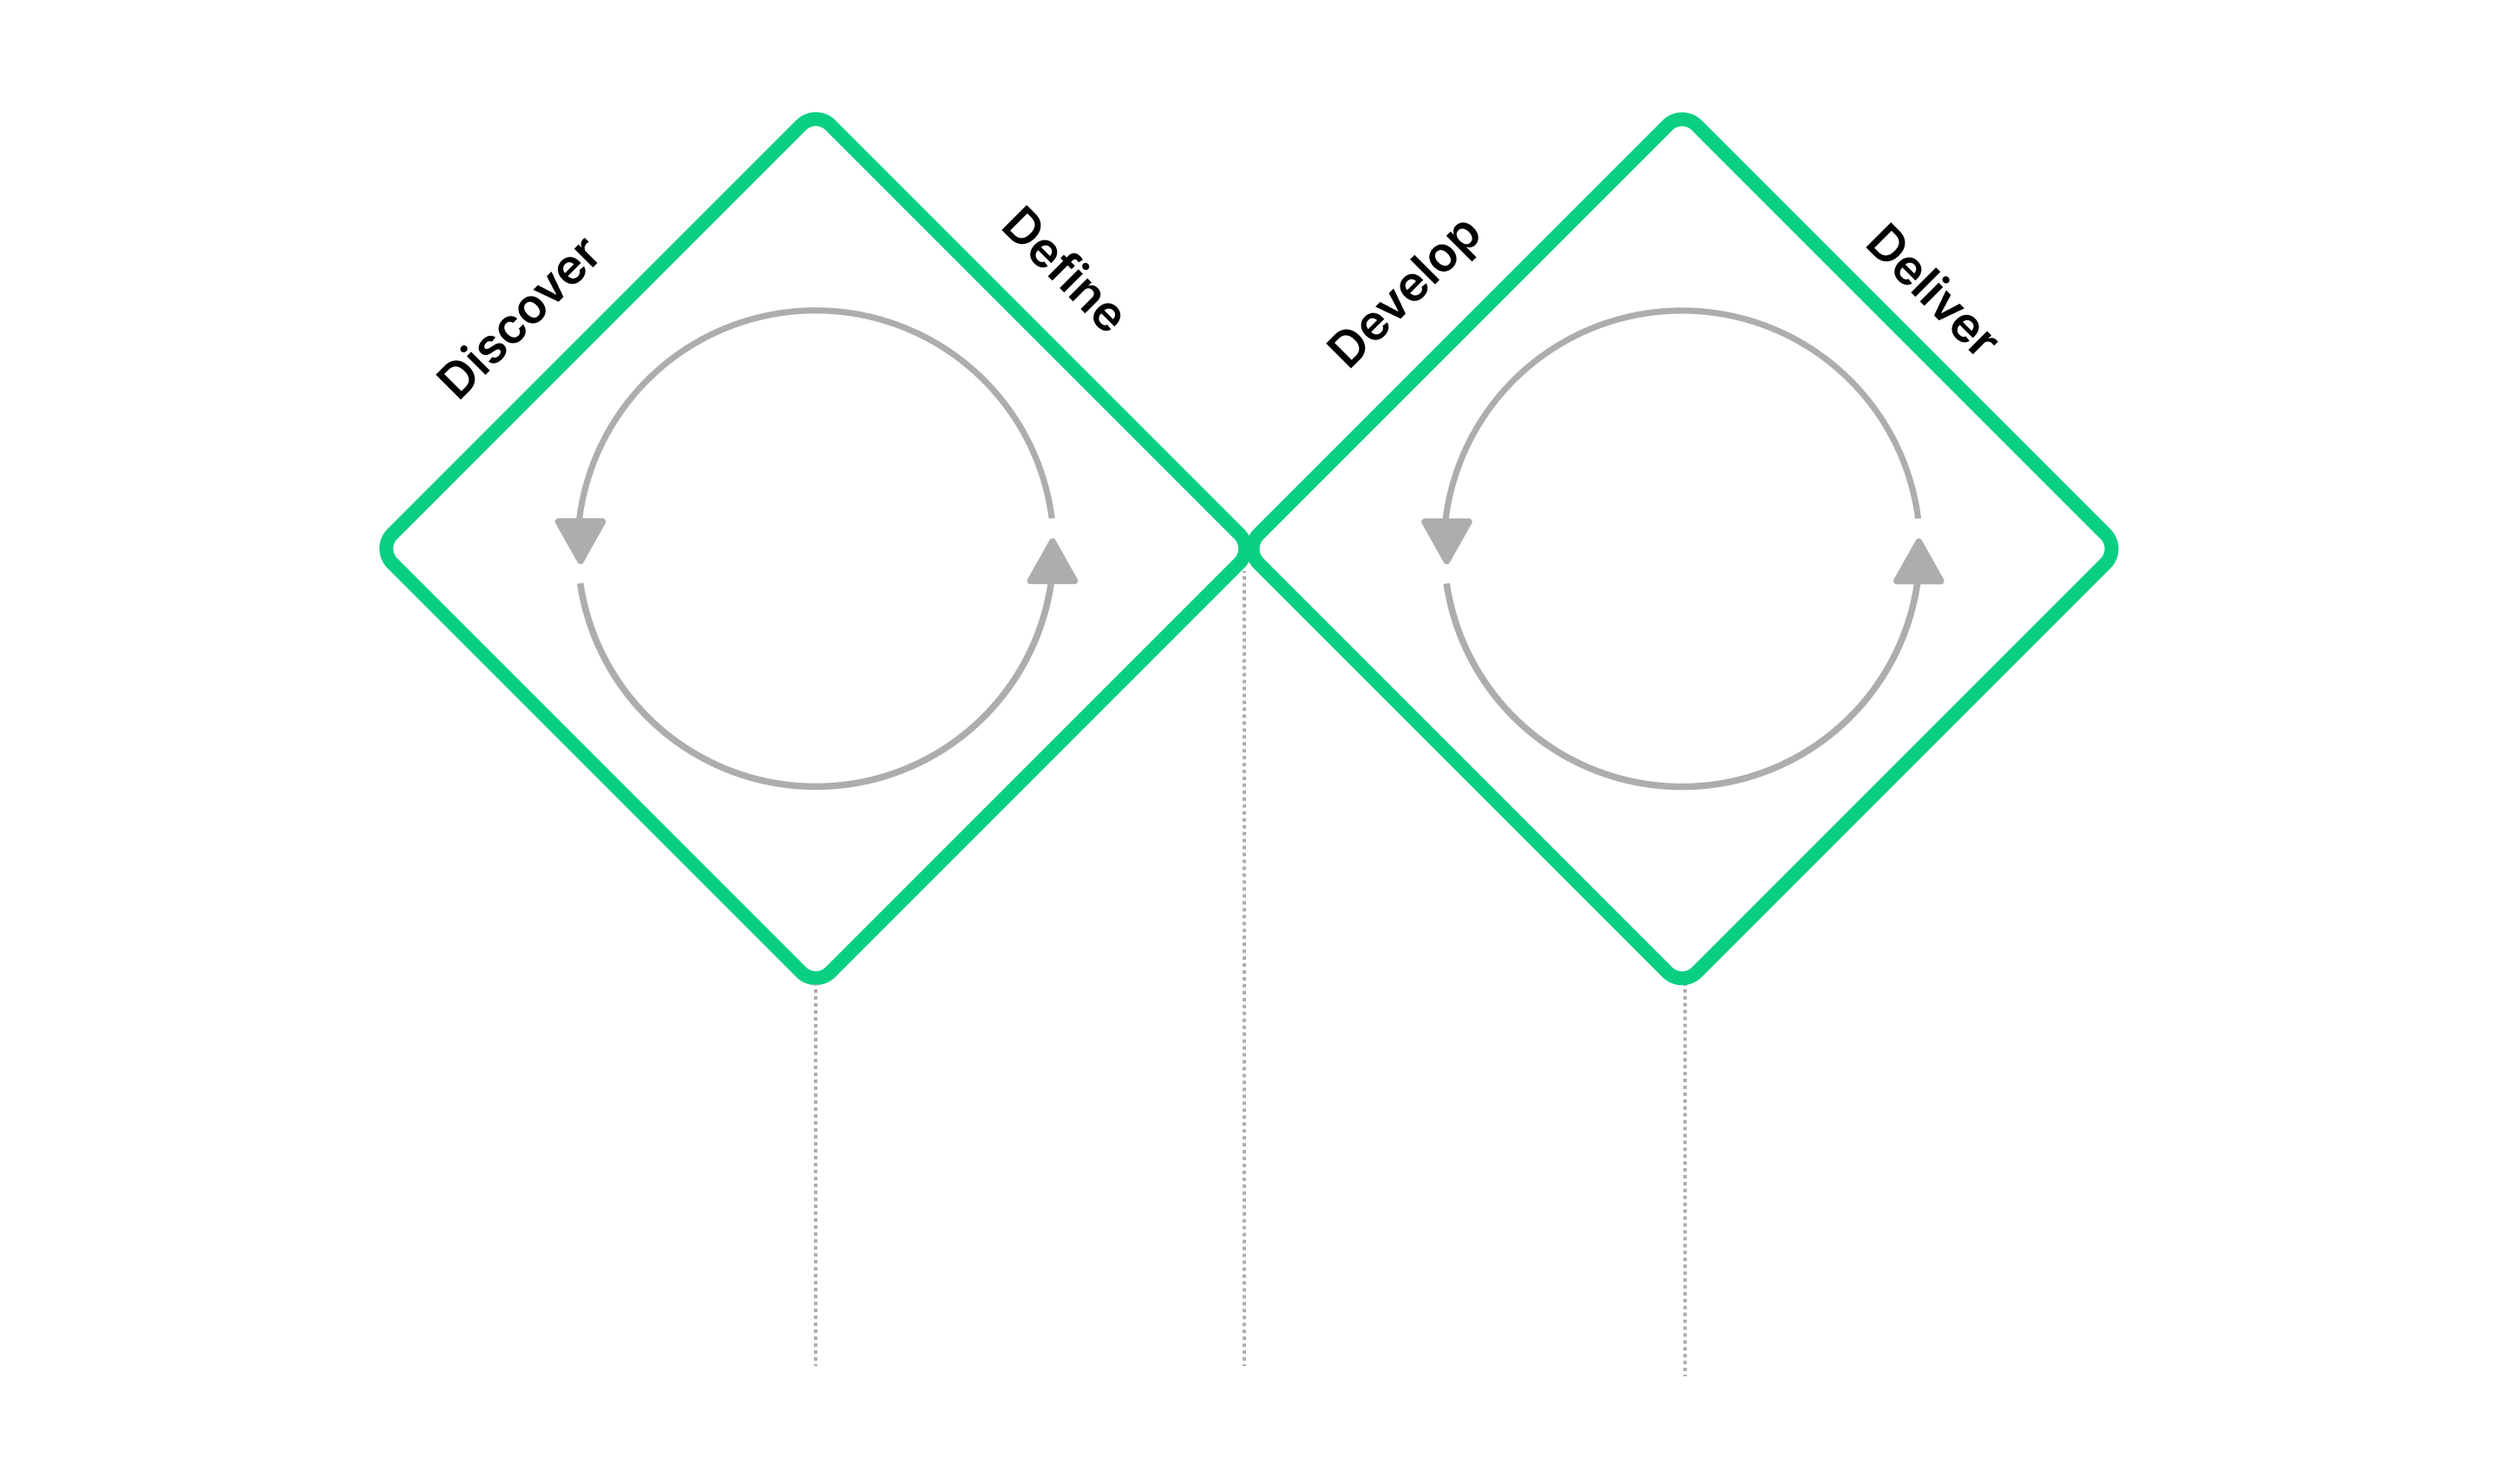
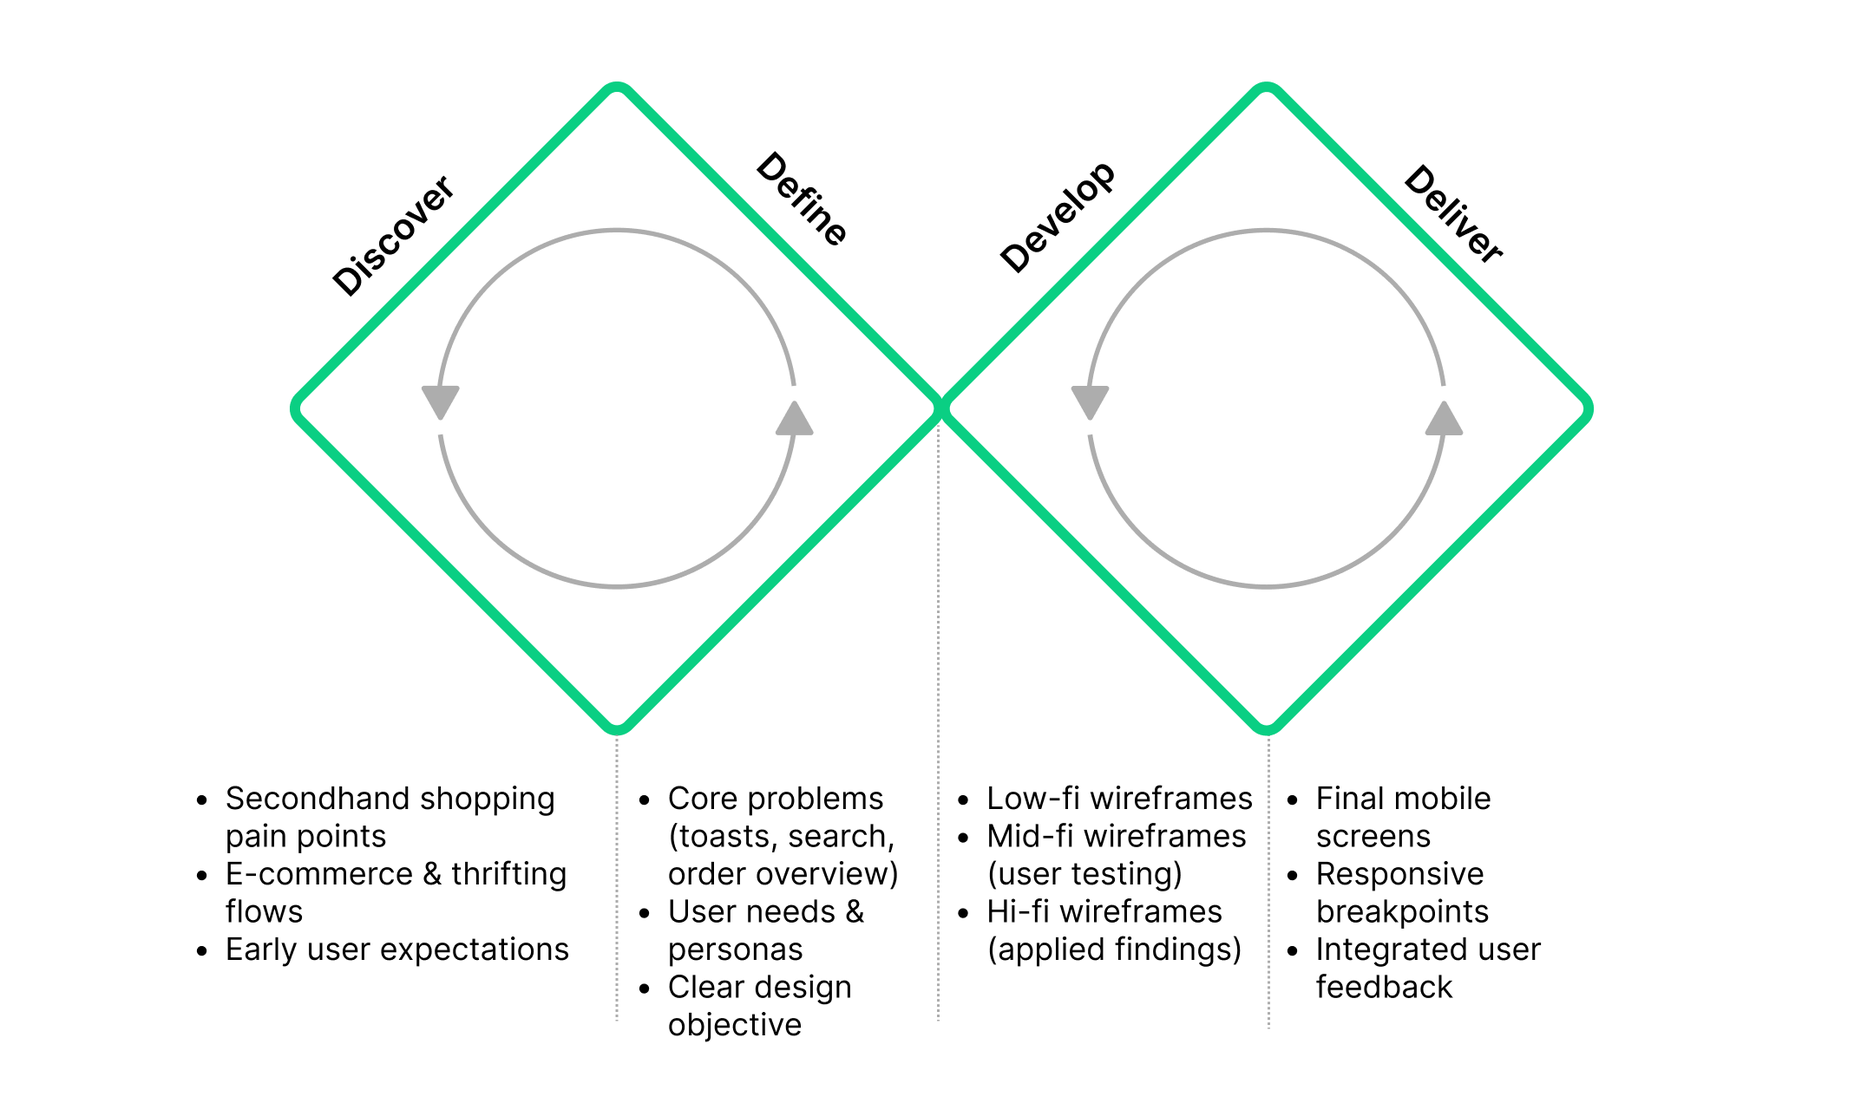
change design-process image

diff --git a/rego.html b/rego.html
@@ -88,36 +88,6 @@
         <source srcset="./images/rego/rego-design-process-medium.png" media="(max-width:1199px)">
         <img src="./images/rego/rego-design-process-large.png" alt="rego market design-thinking process" loading="lazy">
       </picture>
-      <div id="discover">
-        <ul>
-            <li>Secondhand shopping pain points</li>
-            <li>E-commerce & thrifting flows</li>
-            <li>Early user expectations</li>
-        </ul>
-        </div>
-
-        <div id="define">
-        <ul>
-            <li>Core problems (toasts, search, order overview)</li>
-            <li>User needs & personas</li>
-            <li>Clear design objective</li>
-        </ul>
-      </div>
-
-      <div id="develop">
-        <ul>
-            <li>Low-fi wireframes</li>
-            <li>Mid-fi wireframes (user testing)</li>
-            <li>Hi-fi wireframes (applied findings)</li>
-        </ul>
-      </div>
-      <div id="deliver">
-        <ul>
-            <li>Final mobile screens</li>
-            <li>Responsive breakpoints</li>
-            <li>Integrated user feedback</li>
-        </ul>
-      </div>
     </section>
 
     <section id="user-personas" class="section">
